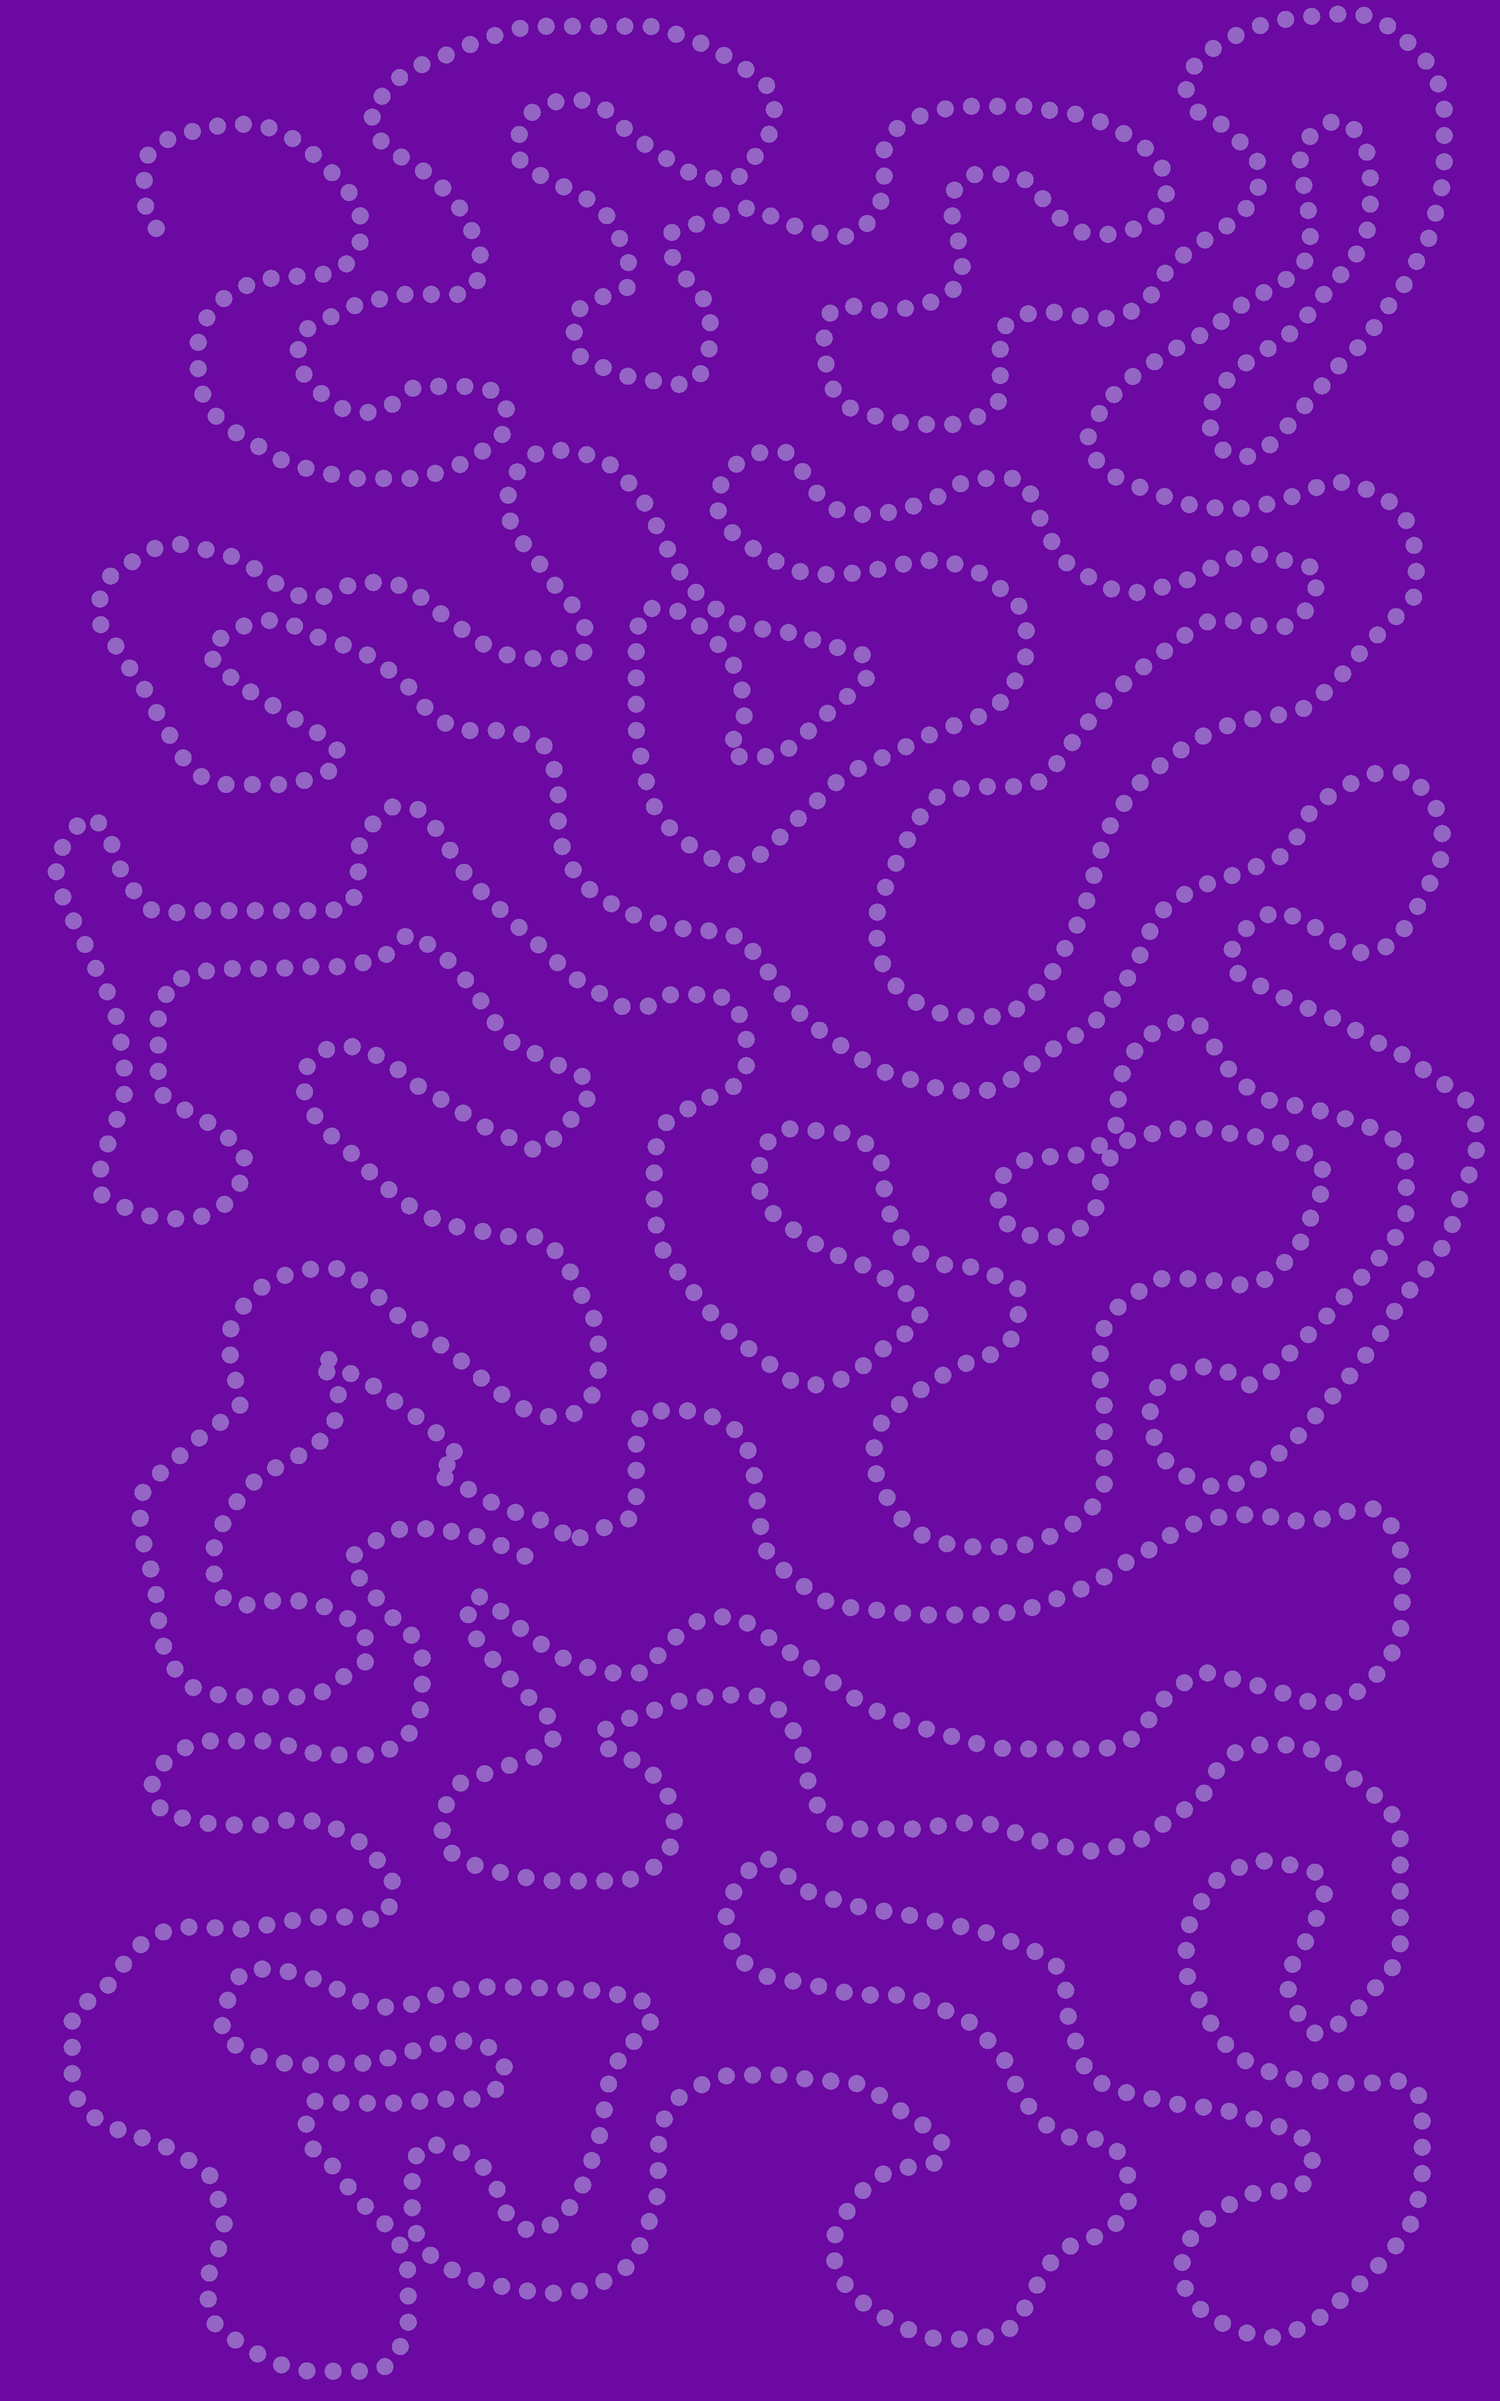
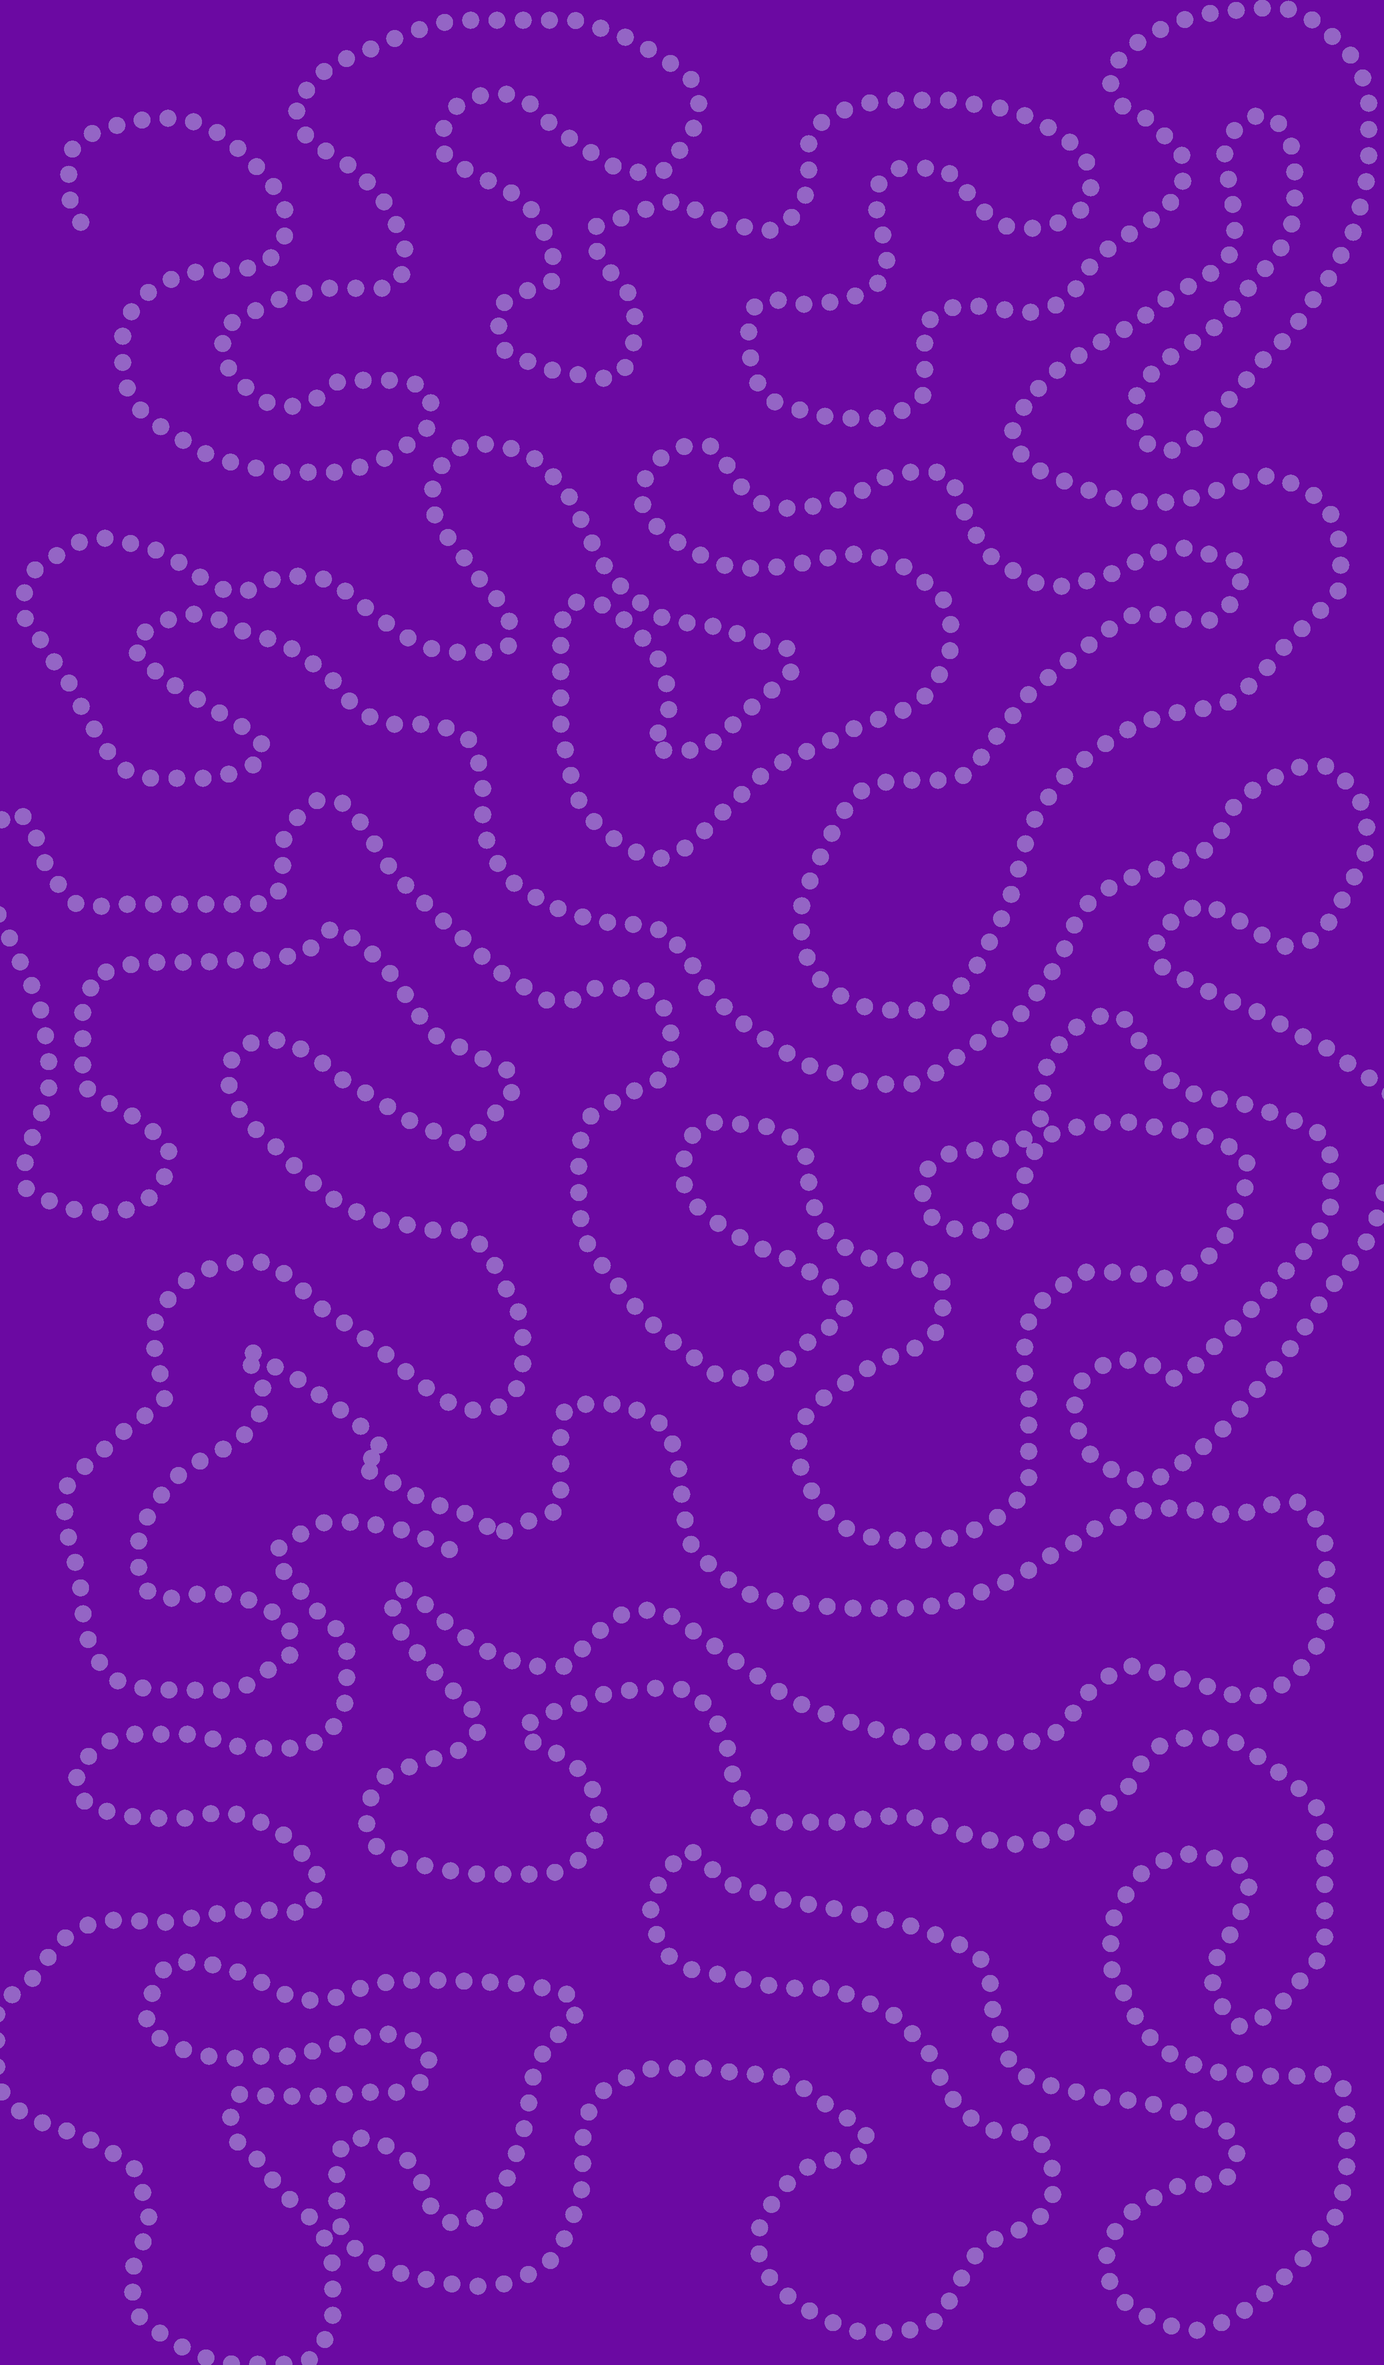
7 Feb 2020 version

diff --git a/src/app/parent/parent.page.html b/src/app/parent/parent.page.html
@@ -7,10 +7,10 @@
 
 <div class=words> 
   <p>親愛的家長:</p>
-  <p>大多數父母都會照顧好自己的孩子,他們會確保孩子有良好的食物、充足的衣物和安全的居住環境。</p>
-  <p>照顧孩子的生理需求是良好育兒的重要部份,但是,你的孩子的屬靈需要又如何呢?這本書將會幫助你的孩子建立與神的關係。裡面的教導不是來自任何特定的教會或宗派,而是來自神的話語—聖經。這本靈修書是為了引導你的孩子,在每天靈修時間與神同行而設計的。</p>
-  <p>當你的孩子讀這本書時,他會更認識神,並且被挑戰,以討神喜悅的方式來生活。你的孩子會被鼓勵去順服、尊重、友善待人和愛人。他將學習到,如勇敢、感恩和知足的品格,還有如何抗拒那些誘惑他做不對的事的人,以及如何原諒他人。</p>
-  <p>這本書寫得簡單明瞭,包括有趣的活動。你甚至可能喜愛和孩子一起做課本的活動!鼓勵你的孩子每天與神有一段靈修時間,你將會幫助你的孩子建立能影響他們一生的良好習慣!</p>
+  <p>大多數父母都會照顧好自己的孩子，他們會確保孩子有良好的食物、充足的衣物和安全的居住環境。</p>
+  <p>照顧孩子的生理需求是良好育兒的重要部份，但是，你的孩子的屬靈需要又如何呢？這本書將會幫助你的孩子建立與神的關係。裡面的教導不是來自任何特定的教會或宗派，而是來自神的話語—聖經。這本靈修書是為了引導你的孩子，在每天靈修時間與神同行而設計的。</p>
+  <p>當你的孩子讀這本書時，他會更認識神，並且被挑戰，以討神喜悅的方式來生活。你的孩子會被鼓勵去順服、尊重、友善待人和愛人。他將學習到，如勇敢、感恩和知足的品格，還有如何抗拒那些誘惑他做不對的事的人，以及如何原諒他人。</p>
+  <p>這本書寫得簡單明瞭，包括有趣的活動。你甚至可能喜愛和孩子一起做課本的活動！鼓勵你的孩子每天與神有一段靈修時間，你將會幫助你的孩子建立能影響他們一生的良好習慣！</p>
 </div>
 
   <ion-fab vertical="bottom" horizontal="start" slot="fixed" (click)="clickL()">

diff --git a/src/app/title/title.page.ts b/src/app/title/title.page.ts
@@ -13,6 +13,7 @@ import { GamesService } from '../games.service';
 export class TitlePage implements OnInit {
 
   public textAll = [];
+  //public textAll: any
 
   constructor(private storage: Storage,
     private storageService: StorageService,
@@ -25,6 +26,7 @@ export class TitlePage implements OnInit {
     .subscribe(data => {
       this.textAll = data;
       if (this.gamesService.reviewMode == 0) {
+        //this.apptextService.currentText = this.textAll
         this.apptextService.currentText = this.textAll[this.storageService.currentPages[this.storageService.v-1]];
       } else {
         this.apptextService.currentText = this.textAll[this.gamesService.reviewMode-1];

diff --git a/src/app/menu/menu.page.ts b/src/app/menu/menu.page.ts
@@ -96,7 +96,7 @@ loadPages() {
     console.log(pages == null)
     if (pages == null) {
       //pages = [0, 0, 0, 0, 0, 0, 0, 0, 0, 0, 0, 0]; //for production
-      pages = [30, 29, 0, 0, 0, 0, 0, 0, 0, 0, 0, 0]; //for testing only
+      pages = [0, 0, 0, 0, 0, 0, 0, 0, 0, 0, 0, 0]; //for testing only
       console.log(pages[0]) // last read page of book volume 1
       console.log(pages[1]) // last read page of book volume 2
       console.log(pages[2]) // last read page of book volume 3

diff --git a/src/app/apptext.service.ts b/src/app/apptext.service.ts
@@ -34,8 +34,8 @@ export class ApptextService {
       this._url="/assets/data/text"+this.storageService.v+".json" //not review mode (start current volume lesson)
       console.log("not review mode")
     }
-    //this._url="/assets/data/text"+this.storageService.v+".json"
-    return this.http.get<IText[]>(this._url);
+    //this._url="/assets/data/text"+this.storageService.v+".json" // no need
+    return this.http.get<IText[]>(this._url); // original
   }
 
 }

diff --git a/src/app/information/information.page.scss b/src/app/information/information.page.scss
@@ -1,5 +1,5 @@
 ion-content{
-    --background: url(../../assets/images/backgrounds/purpleDots2.png) 0 0/100% 200% no-repeat;
+    --background: url(../../assets/images/backgrounds/purpleDots2_L.png) 0 0/100% 200% no-repeat;
     //--overflow: hidden;
 }
 

diff --git a/src/app/parent/parent.page.scss b/src/app/parent/parent.page.scss
@@ -1,5 +1,5 @@
 ion-content{
-    --background: url(../../assets/images/backgrounds/purpleDots2.png) 0 0/100% 200% no-repeat;
+    --background: url(../../assets/images/backgrounds/purpleDots1.png) 0 0/100% 200% no-repeat;
     //--overflow: hidden;
 }
 

diff --git a/src/app/game6/game6.page.scss b/src/app/game6/game6.page.scss
@@ -58,7 +58,7 @@ ion-content{
   .gameText {
     position: absolute;
     left: 13%;
-    top: 52%;
+    top: 53%;
     width: 74%;
     background-color: rgb(220, 235, 248);
     -ms-transform: translateY(-50%);
